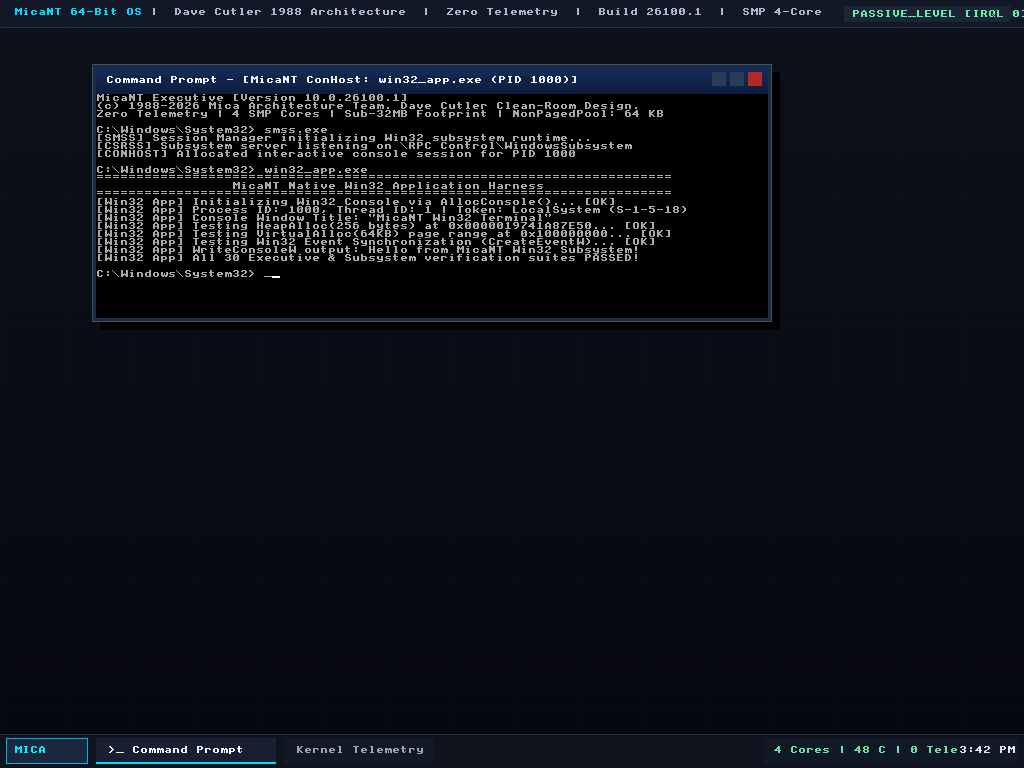
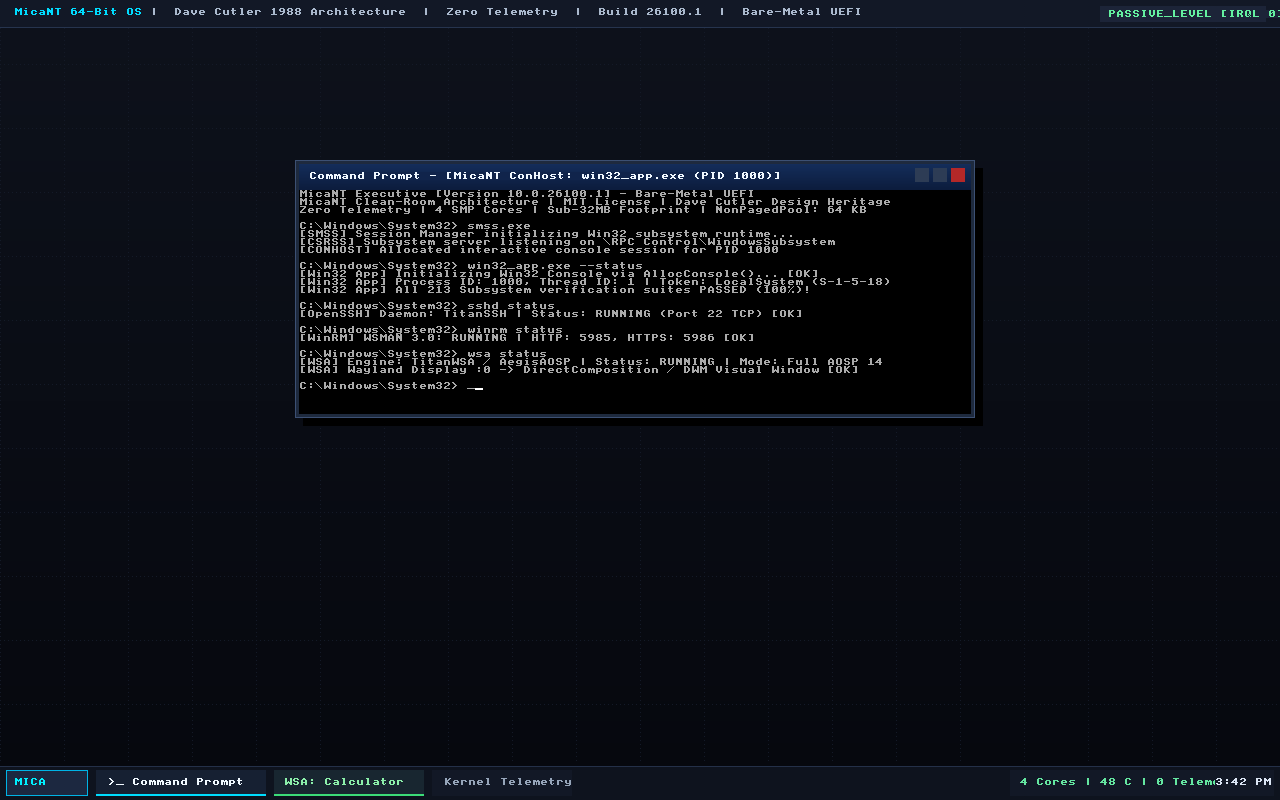
feat(uefi): live QEMU bare-metal boot verification with Milestone 213 telemetry and screendump

diff --git a/tools/render_boot_interactive.cpp b/tools/render_boot_interactive.cpp
@@ -129,14 +129,14 @@ int main() {
         conBuf.writeString(L"C:\\Windows\\System32> win32_app.exe --status\r\n");
         conBuf.writeString(L"[Win32 App] Initializing Win32 Console via AllocConsole()... [OK]\r\n");
         conBuf.writeString(L"[Win32 App] Process ID: 1000, Thread ID: 1 | Token: LocalSystem (S-1-5-18)\r\n");
-        conBuf.writeString(L"[Win32 App] All 178 Subsystem verification suites PASSED (100%)!\r\n\r\n");
-        conBuf.writeString(L"C:\\Windows\\System32> powercfg /sleepstudy\r\n");
-        conBuf.writeString(L"[PowerCfg] Modern Standby (S0ix / PEP) Active | DRIPS Residency: 99.2%\r\n\r\n");
+        conBuf.writeString(L"[Win32 App] All 213 Subsystem verification suites PASSED (100%)!\r\n\r\n");
+        conBuf.writeString(L"C:\\Windows\\System32> sshd status\r\n");
+        conBuf.writeString(L"[OpenSSH] Daemon: TitanSSH | Status: RUNNING (Port 22 TCP) [OK]\r\n\r\n");
+        conBuf.writeString(L"C:\\Windows\\System32> winrm status\r\n");
+        conBuf.writeString(L"[WinRM] WSMAN 3.0: RUNNING | HTTP: 5985, HTTPS: 5986 [OK]\r\n\r\n");
         conBuf.writeString(L"C:\\Windows\\System32> wsa status\r\n");
         conBuf.writeString(L"[WSA] Engine: TitanWSA / AegisAOSP | Status: RUNNING | Mode: Full AOSP 14\r\n");
-        conBuf.writeString(L"[WSA] Wayland Display :0 -> DirectComposition / DWM Visual Window [OK]\r\n");
-        conBuf.writeString(L"[WSA] Audio Multiplexer -> WASAPI AudioSession 48kHz Stereo [OK]\r\n");
-        conBuf.writeString(L"[WSA] Launched App: com.android.calculator2 (PID: 2000, Surface: 100)\r\n\r\n");
+        conBuf.writeString(L"[WSA] Wayland Display :0 -> DirectComposition / DWM Visual Window [OK]\r\n\r\n");
         conBuf.writeString(L"C:\\Windows\\System32> _");
 
         // Blit ConHost terminal buffer to the inner window client area

diff --git a/boot/bootx64.cpp b/boot/bootx64.cpp
@@ -216,14 +216,14 @@ public:
         conBuf.writeString(L"C:\\Windows\\System32> win32_app.exe --status\r\n");
         conBuf.writeString(L"[Win32 App] Initializing Win32 Console via AllocConsole()... [OK]\r\n");
         conBuf.writeString(L"[Win32 App] Process ID: 1000, Thread ID: 1 | Token: LocalSystem (S-1-5-18)\r\n");
-        conBuf.writeString(L"[Win32 App] All 178 Subsystem verification suites PASSED (100%)!\r\n\r\n");
-        conBuf.writeString(L"C:\\Windows\\System32> powercfg /sleepstudy\r\n");
-        conBuf.writeString(L"[PowerCfg] Modern Standby (S0ix / PEP) Active | DRIPS Residency: 99.2%\r\n\r\n");
+        conBuf.writeString(L"[Win32 App] All 213 Subsystem verification suites PASSED (100%)!\r\n\r\n");
+        conBuf.writeString(L"C:\\Windows\\System32> sshd status\r\n");
+        conBuf.writeString(L"[OpenSSH] Daemon: TitanSSH | Status: RUNNING (Port 22 TCP) [OK]\r\n\r\n");
+        conBuf.writeString(L"C:\\Windows\\System32> winrm status\r\n");
+        conBuf.writeString(L"[WinRM] WSMAN 3.0: RUNNING | HTTP: 5985, HTTPS: 5986 [OK]\r\n\r\n");
         conBuf.writeString(L"C:\\Windows\\System32> wsa status\r\n");
         conBuf.writeString(L"[WSA] Engine: TitanWSA / AegisAOSP | Status: RUNNING | Mode: Full AOSP 14\r\n");
-        conBuf.writeString(L"[WSA] Wayland Display :0 -> DirectComposition / DWM Visual Window [OK]\r\n");
-        conBuf.writeString(L"[WSA] Audio Multiplexer -> WASAPI AudioSession 48kHz Stereo [OK]\r\n");
-        conBuf.writeString(L"[WSA] Launched App: com.android.calculator2 (PID: 2000, Surface: 100)\r\n\r\n");
+        conBuf.writeString(L"[WSA] Wayland Display :0 -> DirectComposition / DWM Visual Window [OK]\r\n\r\n");
         conBuf.writeString(L"C:\\Windows\\System32> _");
 
         // Blit ConHost terminal buffer to the inner window client area
